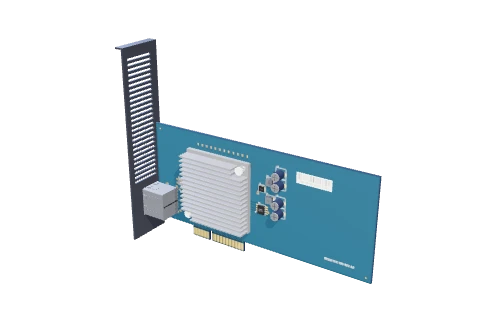
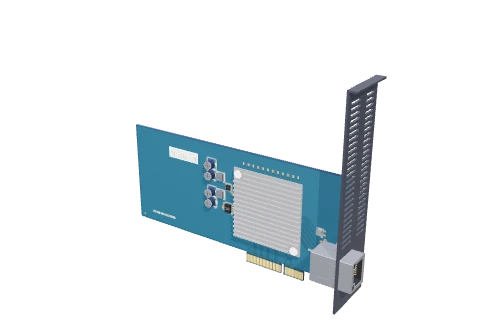
Shop: a NIC opens on its parts side; NIC stills baked again
The showcase stands a NIC with its parts away from the viewer: half a turn.
The three NIC stills show the current cards, the 40G one with its QSFP+ cages.

Changed region(s): [[0.2188, 0.119, 0.8125, 0.9524]]

diff --git a/src/features/board/render/three/showcase.test.ts b/src/features/board/render/three/showcase.test.ts
@@ -1,6 +1,7 @@
 import { describe, expect, it } from 'vitest';
-import { Box3 } from 'three';
+import { Box3, Vector3, type Object3D } from 'three';
 import { builtinTheme } from '@/core/render/theme';
+import { idOf } from '@/core/render/three/pick';
 import { DEVICE_SPECS } from '@/features/board/sim/specs';
 import { LAYOUT_CASE, LAYOUT_TIER, setLayoutTier } from '../layout/layout';
 import { buildShowcaseModel } from './showcase';
@@ -55,6 +56,18 @@ describe('the showcase models', () => {
     const b = new Box3().setFromObject(buildShowcaseModel('ram0', T)!), s = b.getSize(b.max.clone());
     expect(s.x).toBeGreaterThan(s.y);
     expect(s.x).toBeGreaterThan(s.z);
+  });
+
+  it('turns a NIC to show its parts first: its jacks stand on the viewer\'s side of the card (+z), as a graphics card shows its cooler', () => {
+    for (const id of ['nic1', 'nic2', 'nic3']) {
+      const m = buildShowcaseModel(id, T)!;
+      m.updateMatrixWorld(true);
+      let jack: Object3D | null = null;
+      m.traverse((o) => { if (idOf(o)?.endsWith('.nic-jack')) jack = o; });
+      expect(jack, id).not.toBeNull();
+      const whole = new Box3().setFromObject(m).getCenter(new Vector3()), at = new Box3().setFromObject(jack!).getCenter(new Vector3());
+      expect(at.z - whole.z, id).toBeGreaterThan(1);
+    }
   });
 
   it('leaves the live layout as it was, and gives null for an unknown id', () => {

diff --git a/src/features/board/render/three/showcase.ts b/src/features/board/render/three/showcase.ts
@@ -98,11 +98,14 @@ export function buildShowcaseModel(specId: string, T: Theme = builtinTheme()): O
     case 'gpu': case 'npu': case 'nic': {
       const cs = spec as CardSpec | NicSpec;
       // (standing, as in the case before the camera comes in: its face shows once it swings down flat)
-      return upright(withLayout(() => withArt((art) => {
+      const card = upright(withLayout(() => withArt((art) => {
         const card = cardModel(art, T, spec.kind as 'gpu' | 'npu' | 'nic', cs.visual, 0);
         card.pose(0);
         return card.root;
       })));
+      // (a graphics card's cooler hangs on its south face, toward the viewer; a NIC's parts stand on its north face, away from it: half a turn shows them first)
+      if (spec.kind === 'nic') card.rotation.y = Math.PI;
+      return card;
     }
     case 'cpu': return upright(withLayout(() => withArt((art) => {
       const c = cpuModel(art, T, spec as CpuSpec);
